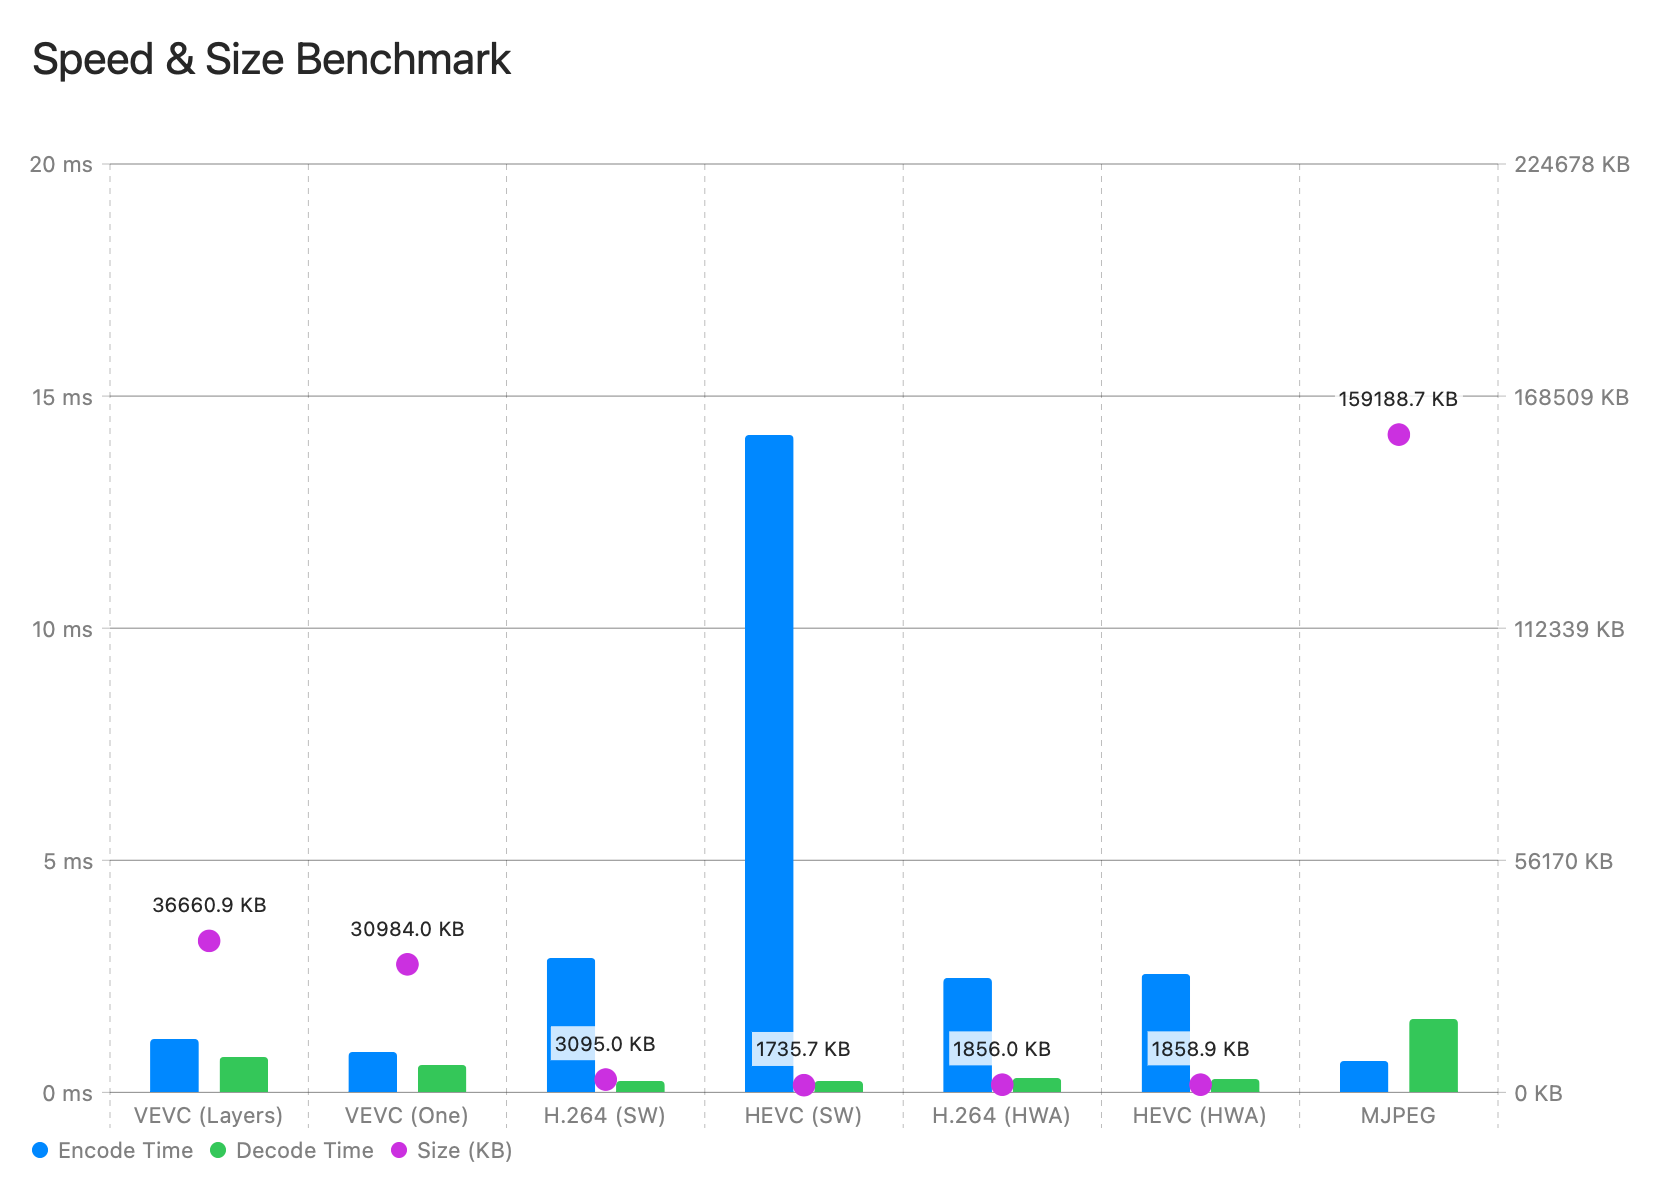
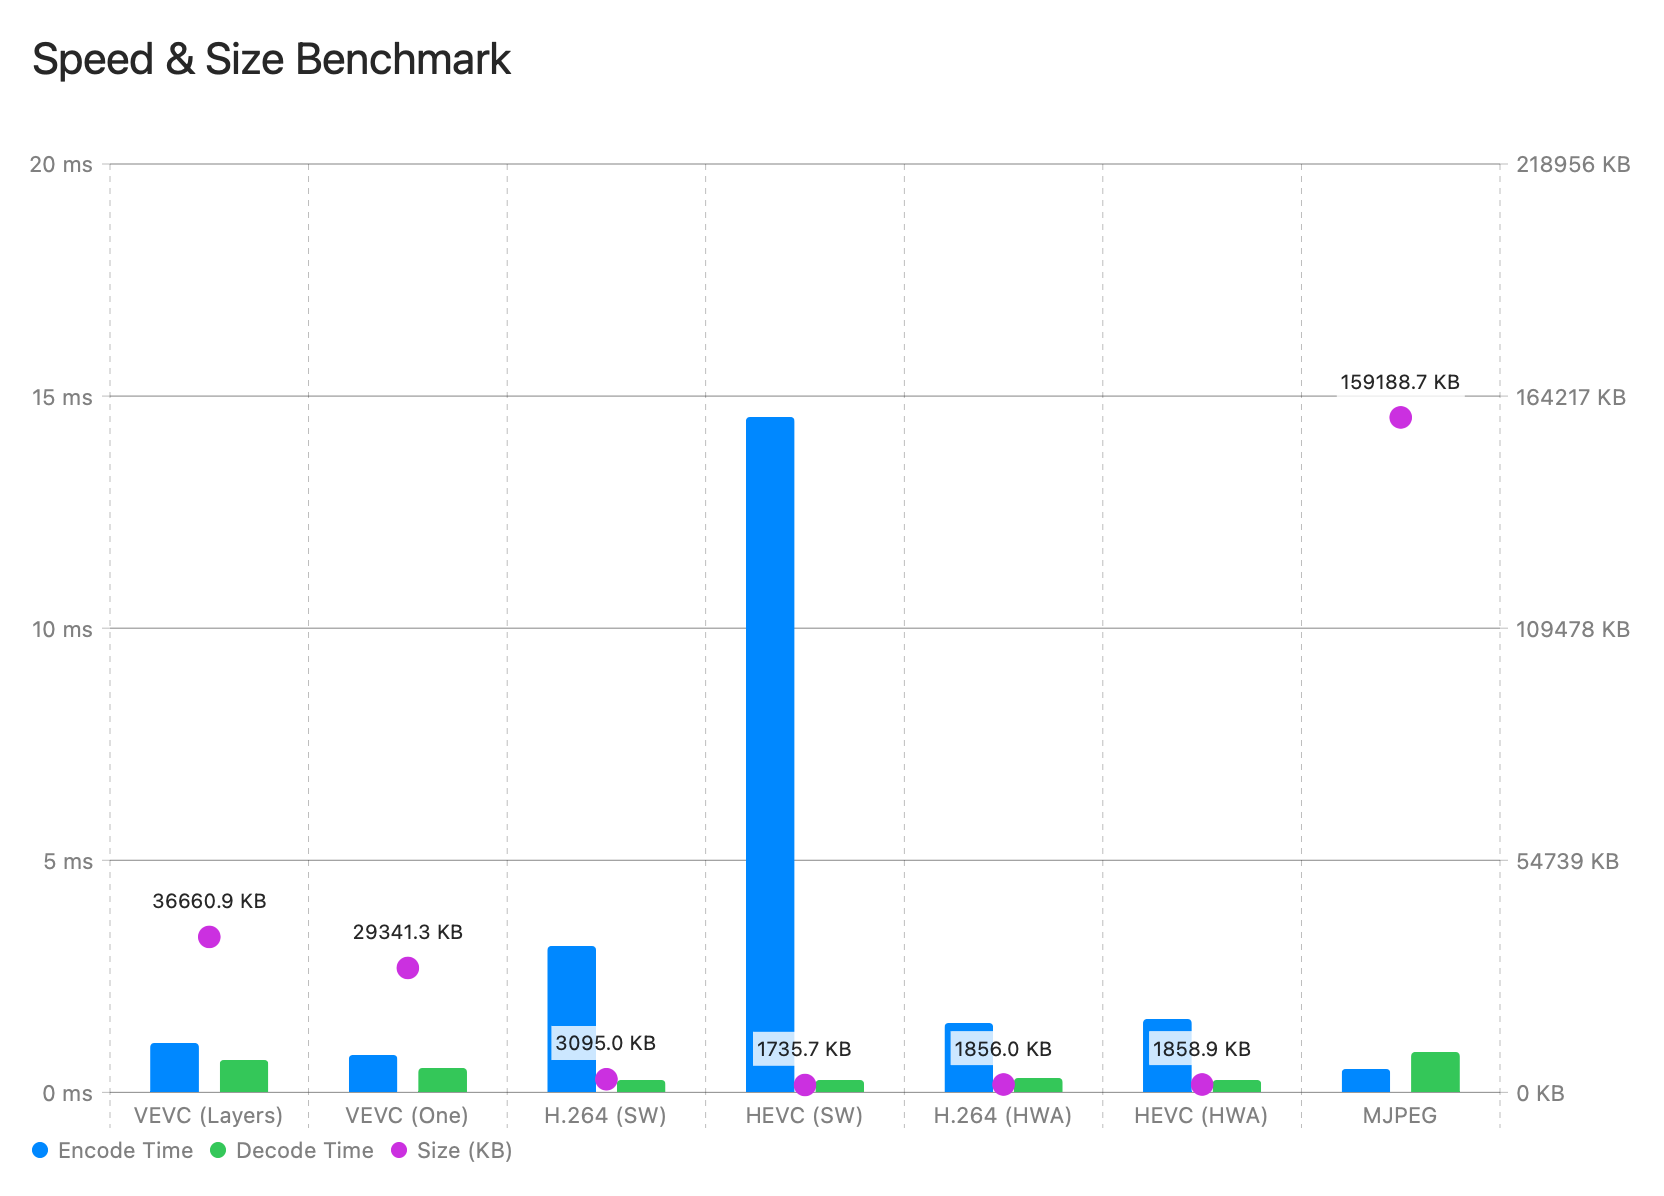
tune size

diff --git a/Tests/vevcTests/DPCMDistributionTests.swift b/Tests/vevcTests/DPCMDistributionTests.swift
@@ -1,0 +1,150 @@
+import XCTest
+@testable import vevc
+
+/// Oneモード(DPCM)の実データトークン分布を測定し、最適な静的rANSテーブルを設計するためのテスト
+final class DPCMDistributionTests: XCTestCase {
+    
+    /// 128x128画像を使ったDPCMトークン分布測定
+    /// 多様なパターンを含む画像を複数生成してトークン分布を集約
+    func testCollectDPCMTokenDistribution() throws {
+        var globalRunCounts = [Int](repeating: 0, count: 64)
+        var globalValCounts = [Int](repeating: 0, count: 64)
+        var totalPairs = 0
+        
+        // generate diverse test images to approximate real-world distribution
+        let patterns: [(String, (Int, Int, Int, Int) -> Int16)] = [
+            ("gradient_h", { x, y, w, h in Int16(x * 255 / max(1, w - 1)) }),
+            ("gradient_v", { x, y, w, h in Int16(y * 255 / max(1, h - 1)) }),
+            ("gradient_diag", { x, y, w, h in Int16((x + y) * 127 / max(1, w + h - 2)) }),
+            ("checkerboard", { x, y, w, h in Int16((x / 8 + y / 8) % 2 == 0 ? 200 : 50) }),
+            ("noise_low", { x, y, w, h in Int16.random(in: 0...30) }),
+            ("noise_mid", { x, y, w, h in Int16.random(in: 0...128) }),
+            ("noise_high", { x, y, w, h in Int16.random(in: 0...255) }),
+            ("flat_dark", { _, _, _, _ in Int16(20) }),
+            ("flat_mid", { _, _, _, _ in Int16(128) }),
+            ("flat_bright", { _, _, _, _ in Int16(230) }),
+            ("stripe_h8", { x, y, w, h in Int16((y / 8) % 2 == 0 ? 180 : 60) }),
+            ("stripe_v8", { x, y, w, h in Int16((x / 8) % 2 == 0 ? 180 : 60) }),
+            ("circle", { x, y, w, h in
+                let cx = w / 2, cy = h / 2
+                let dist = (x - cx) * (x - cx) + (y - cy) * (y - cy)
+                let rad = min(w, h) / 3
+                return Int16(dist < rad * rad ? 200 : 50)
+            }),
+            ("smooth_wave", { x, y, w, h in
+                let v = sin(Double(x) * 6.28 / Double(w)) * 50.0 + sin(Double(y) * 6.28 / Double(h)) * 50.0 + 128.0
+                return Int16(max(0, min(255, Int(v))))
+            }),
+            ("edge_block", { x, y, w, h in
+                Int16(x < w / 2 ? (y < h / 2 ? 200 : 100) : (y < h / 2 ? 50 : 170))
+            }),
+        ]
+        
+        let width = 256
+        let height = 256
+        
+        for (name, gen) in patterns {
+            var yPlane = [Int16](repeating: 0, count: width * height)
+            var cbPlane = [Int16](repeating: 128, count: (width / 2) * (height / 2))
+            var crPlane = [Int16](repeating: 128, count: (width / 2) * (height / 2))
+            
+            for y in 0..<height {
+                for x in 0..<width {
+                    yPlane[y * width + x] = gen(x, y, width, height)
+                }
+            }
+            
+            let pd = PlaneData420(width: width, height: height, y: yPlane, cb: cbPlane, cr: crPlane)
+            let qtY = QuantizationTable(baseStep: 24, isChroma: false, layerIndex: 0, isOne: true)
+            
+            // extract blocks and quantize
+            var (blocks, _) = extractSingleTransformBlocks32(r: pd.rY, width: width, height: height)
+            for i in blocks.indices {
+                evaluateQuantizeBase32(block: &blocks[i], qt: qtY)
+            }
+            
+            // encode with DynamicEntropyModel to get actual pairs
+            var encoder = EntropyEncoder<DynamicEntropyModel>()
+            var lastVal: Int16 = 0
+            
+            for i in blocks.indices {
+                let isZero = blocks[i].data.withUnsafeMutableBufferPointer { ptr in
+                    return isEffectivelyZeroBase32(data: ptr, threshold: 3)
+                }
+                if isZero {
+                    lastVal = 0
+                    continue
+                }
+                blocks[i].withView { view in
+                    let subs = getSubbands32(view: view)
+                    blockEncodeDPCM16(encoder: &encoder, block: subs.ll, lastVal: &lastVal)
+                    blockEncode16(encoder: &encoder, block: subs.hl, parentBlock: nil)
+                    blockEncode16(encoder: &encoder, block: subs.lh, parentBlock: nil)
+                    blockEncode16(encoder: &encoder, block: subs.hh, parentBlock: nil)
+                }
+            }
+            encoder.flush()
+            
+            // collect token distribution from pairs
+            for pair in encoder.pairs {
+                let runResult = valueTokenizeUnsigned(pair.run)
+                let valResult = valueTokenize(pair.val)
+                globalRunCounts[Int(runResult.token)] += 1
+                globalValCounts[Int(valResult.token)] += 1
+                totalPairs += 1
+            }
+            
+            print("[\(name)] pairs=\(encoder.pairs.count)")
+        }
+        
+        print("\n=== DPCM Token Distribution (total \(totalPairs) pairs) ===")
+        
+        // Output run token distribution
+        print("\nRun token frequencies (for staticDPCMRunModel):")
+        let runTotal = globalRunCounts.reduce(0, +)
+        var runNormalized = [UInt32](repeating: 1, count: 64)
+        for i in 0..<64 {
+            if globalRunCounts[i] > 0 {
+                let normalized = max(1, UInt32(Double(globalRunCounts[i]) / Double(runTotal) * Double(RANS_SCALE)))
+                runNormalized[i] = normalized
+            }
+        }
+        print("let staticDPCMRunModel = buildStaticModel(rawFreqs: [")
+        for row in 0..<8 {
+            let start = row * 8
+            let vals = (start..<start+8).map { String(format: "%5d", runNormalized[$0]) }
+            print("    \(vals.joined(separator: ",")),")
+        }
+        print("])")
+        
+        // Output val token distribution
+        print("\nValue token frequencies (for staticDPCMValModel):")
+        let valTotal = globalValCounts.reduce(0, +)
+        var valNormalized = [UInt32](repeating: 1, count: 64)
+        for i in 0..<64 {
+            if globalValCounts[i] > 0 {
+                let normalized = max(1, UInt32(Double(globalValCounts[i]) / Double(valTotal) * Double(RANS_SCALE)))
+                valNormalized[i] = normalized
+            }
+        }
+        print("let staticDPCMValModel = buildStaticModel(rawFreqs: [")
+        for row in 0..<8 {
+            let start = row * 8
+            let vals = (start..<start+8).map { String(format: "%5d", valNormalized[$0]) }
+            print("    \(vals.joined(separator: ",")),")
+        }
+        print("])")
+        
+        // Also print raw counts for debugging
+        print("\nRaw run counts:")
+        for i in 0..<64 where globalRunCounts[i] > 0 {
+            print("  token[\(i)] = \(globalRunCounts[i]) (\(String(format: "%.2f", Double(globalRunCounts[i]) / Double(runTotal) * 100))%)")
+        }
+        print("\nRaw val counts:")
+        for i in 0..<64 where globalValCounts[i] > 0 {
+            print("  token[\(i)] = \(globalValCounts[i]) (\(String(format: "%.2f", Double(globalValCounts[i]) / Double(valTotal) * 100))%)")
+        }
+        
+        XCTAssertTrue(totalPairs > 0, "Should have collected token distribution")
+    }
+}

diff --git a/Sources/vevc/EntropyCodec.swift b/Sources/vevc/EntropyCodec.swift
@@ -12,6 +12,7 @@ struct ContextModel {
 
 protocol EntropyModelProvider {
     static var isStaticMode: Bool { get }
+    static var isDPCMMode: Bool { get }
     static func generateModels(
         runTokenCounts0: inout [Int], valTokenCounts0: inout [Int],
         runTokenCounts1: inout [Int], valTokenCounts1: inout [Int]
@@ -26,6 +27,7 @@ protocol EntropyModelProvider {
 
 struct StaticEntropyModel: EntropyModelProvider {
     static var isStaticMode: Bool { true }
+    static var isDPCMMode: Bool { false }
     
     @inline(__always)
     static func generateModels(
@@ -45,6 +47,7 @@ struct StaticEntropyModel: EntropyModelProvider {
 
 struct DynamicEntropyModel: EntropyModelProvider {
     static var isStaticMode: Bool { false }
+    static var isDPCMMode: Bool { false }
     
     @inline(__always)
     static func generateModels(
@@ -73,6 +76,29 @@ struct DynamicEntropyModel: EntropyModelProvider {
         writeCompressedFreqTable(&out, freqs: runModel1.tokenFreqs)
         writeCompressedFreqTable(&out, freqs: valModel1.tokenFreqs)
     }
+}
+
+/// Static entropy model specialized for DPCM mode.
+/// DPCM does not distinguish isParentZero, so the same tables are used for both isParentZero=false and true.
+struct StaticDPCMEntropyModel: EntropyModelProvider {
+    static var isStaticMode: Bool { true }
+    static var isDPCMMode: Bool { true }
+    
+    @inline(__always)
+    static func generateModels(
+        runTokenCounts0: inout [Int], valTokenCounts0: inout [Int],
+        runTokenCounts1: inout [Int], valTokenCounts1: inout [Int]
+    ) -> (runModel0: rANSModel, valModel0: rANSModel, runModel1: rANSModel, valModel1: rANSModel) {
+        // DPCM uses the same model for both isParentZero=false and true
+        return (staticDPCMRunModel, staticDPCMValModel, staticDPCMRunModel, staticDPCMValModel)
+    }
+    
+    @inline(__always)
+    static func writeHeaders(
+        into out: inout [UInt8],
+        runModel0: rANSModel, valModel0: rANSModel,
+        runModel1: rANSModel, valModel1: rANSModel
+    ) {}
 }
 
 struct EntropyEncoder<Model: EntropyModelProvider> {
@@ -228,7 +254,11 @@ struct EntropyEncoder<Model: EntropyModelProvider> {
         let runModel1 = models.runModel1
         let valModel1 = models.valModel1
         
-        let headerFlag: UInt8 = Model.isStaticMode ? (hasTrailingZeros ? 0x41 : 0x40) : (hasTrailingZeros ? 1 : 0)
+        // Flags byte: bit6=isStatic, bit5=isDPCM, bit0=hasTrailingZeros
+        let staticBit: UInt8 = Model.isStaticMode ? 0x40 : 0
+        let dpcmBit: UInt8   = Model.isDPCMMode   ? 0x20 : 0
+        let trailBit: UInt8  = hasTrailingZeros    ? 0x01 : 0
+        let headerFlag: UInt8 = staticBit | dpcmBit | trailBit
         out.append(headerFlag)
         appendUInt32BE(&out, UInt32(totalPairEntries))
         
@@ -417,8 +447,16 @@ struct EntropyDecoder {
         }
         self.chunkStarts = starts
         
-        if isStaticTable {
-            // Static table mode: no frequency tables in bitstream
+        let isDPCMTable = (flags & 0x20) != 0
+        
+        if isStaticTable, isDPCMTable {
+            // Static DPCM mode: use DPCM-specific static tables
+            self.runModel0 = staticDPCMRunModel
+            self.valModel0 = staticDPCMValModel
+            self.runModel1 = staticDPCMRunModel
+            self.valModel1 = staticDPCMValModel
+        } else if isStaticTable {
+            // Static DWT mode: no frequency tables in bitstream
             self.runModel0 = staticRunModel0
             self.valModel0 = staticValModel0
             self.runModel1 = staticRunModel1

diff --git a/Sources/vevc/rANS.swift b/Sources/vevc/rANS.swift
@@ -99,6 +99,36 @@ let staticValModel1 = buildStaticModel(rawFreqs: [
        1,    1,    1,    1,    1,   1,    1,   1,
 ])
 
+// MARK: - DPCM Static Tables
+// Measured from real 1080p video (ToS-4k-1080.y4m, 1802 frames, 44139379 pairs).
+// DPCM has no isParentZero concept, so only one run/val model pair is needed.
+// Both isParentZero=false and isParentZero=true use the same tables.
+
+// DPCM run tokens: run=0 dominant (~39%), smooth exponential decay
+let staticDPCMRunModel = buildStaticModel(rawFreqs: [
+    6358, 2738, 1575, 1049,  757,  582,  490,  392,
+     298,  254,  226,  200,  192,  199,  269,  209,
+      45,   31,   25,   21,   18,   17,   19,   18,
+      15,   13,   14,   14,   15,   19,   36,   35,
+      10,    7,   11,   19,   52,   47,   34,   25,
+      17,    1,    1,    1,    1,    1,    1,    1,
+       1,    1,    1,    1,    1,    1,    1,    1,
+       1,    1,    1,    1,    1,    1,    1,    1,
+])
+
+// DPCM val tokens: token0(+1)=44.2%, token1(-1)=48.2% (ultra-concentrated)
+// DPCM residuals are almost exclusively ±1
+let staticDPCMValModel = buildStaticModel(rawFreqs: [
+    7247, 7891,  495,  516,   90,   91,   19,   20,
+       4,    4,    1,    1,    1,    1,    1,    1,
+       1,    1,    1,    1,    1,    1,    1,    1,
+       1,    1,    1,    1,    1,    1,    1,    1,
+       1,    1,    1,    1,    1,    1,    1,    1,
+       1,    1,    1,    1,    1,    1,    1,    1,
+       1,    1,    1,    1,    1,    1,    1,    1,
+       1,    1,    1,    1,    1,    1,    1,    1,
+])
+
 // MARK: - rANS Probability Model
 
 struct rANSModel {

diff --git a/Sources/vevc/Encode.swift b/Sources/vevc/Encode.swift
@@ -1392,7 +1392,7 @@ func encodePlaneBaseSubbands32(blocks: inout [Block2D], zeroThreshold: Int) -> [
     bwFlags.flush()
     debugLog("    [BaseSubbands32] blocks=\(blocks.count) zeroBlocks=\(zeroCount) zeroRate=\(String(format: "%.1f", Double(zeroCount) / Double(max(1, blocks.count)) * 100))%")
     
-    var encoder = EntropyEncoder<DynamicEntropyModel>()
+    var encoder = EntropyEncoder<StaticDPCMEntropyModel>()
     var lastVal: Int16 = 0
     
     for (i, task) in tasks {
